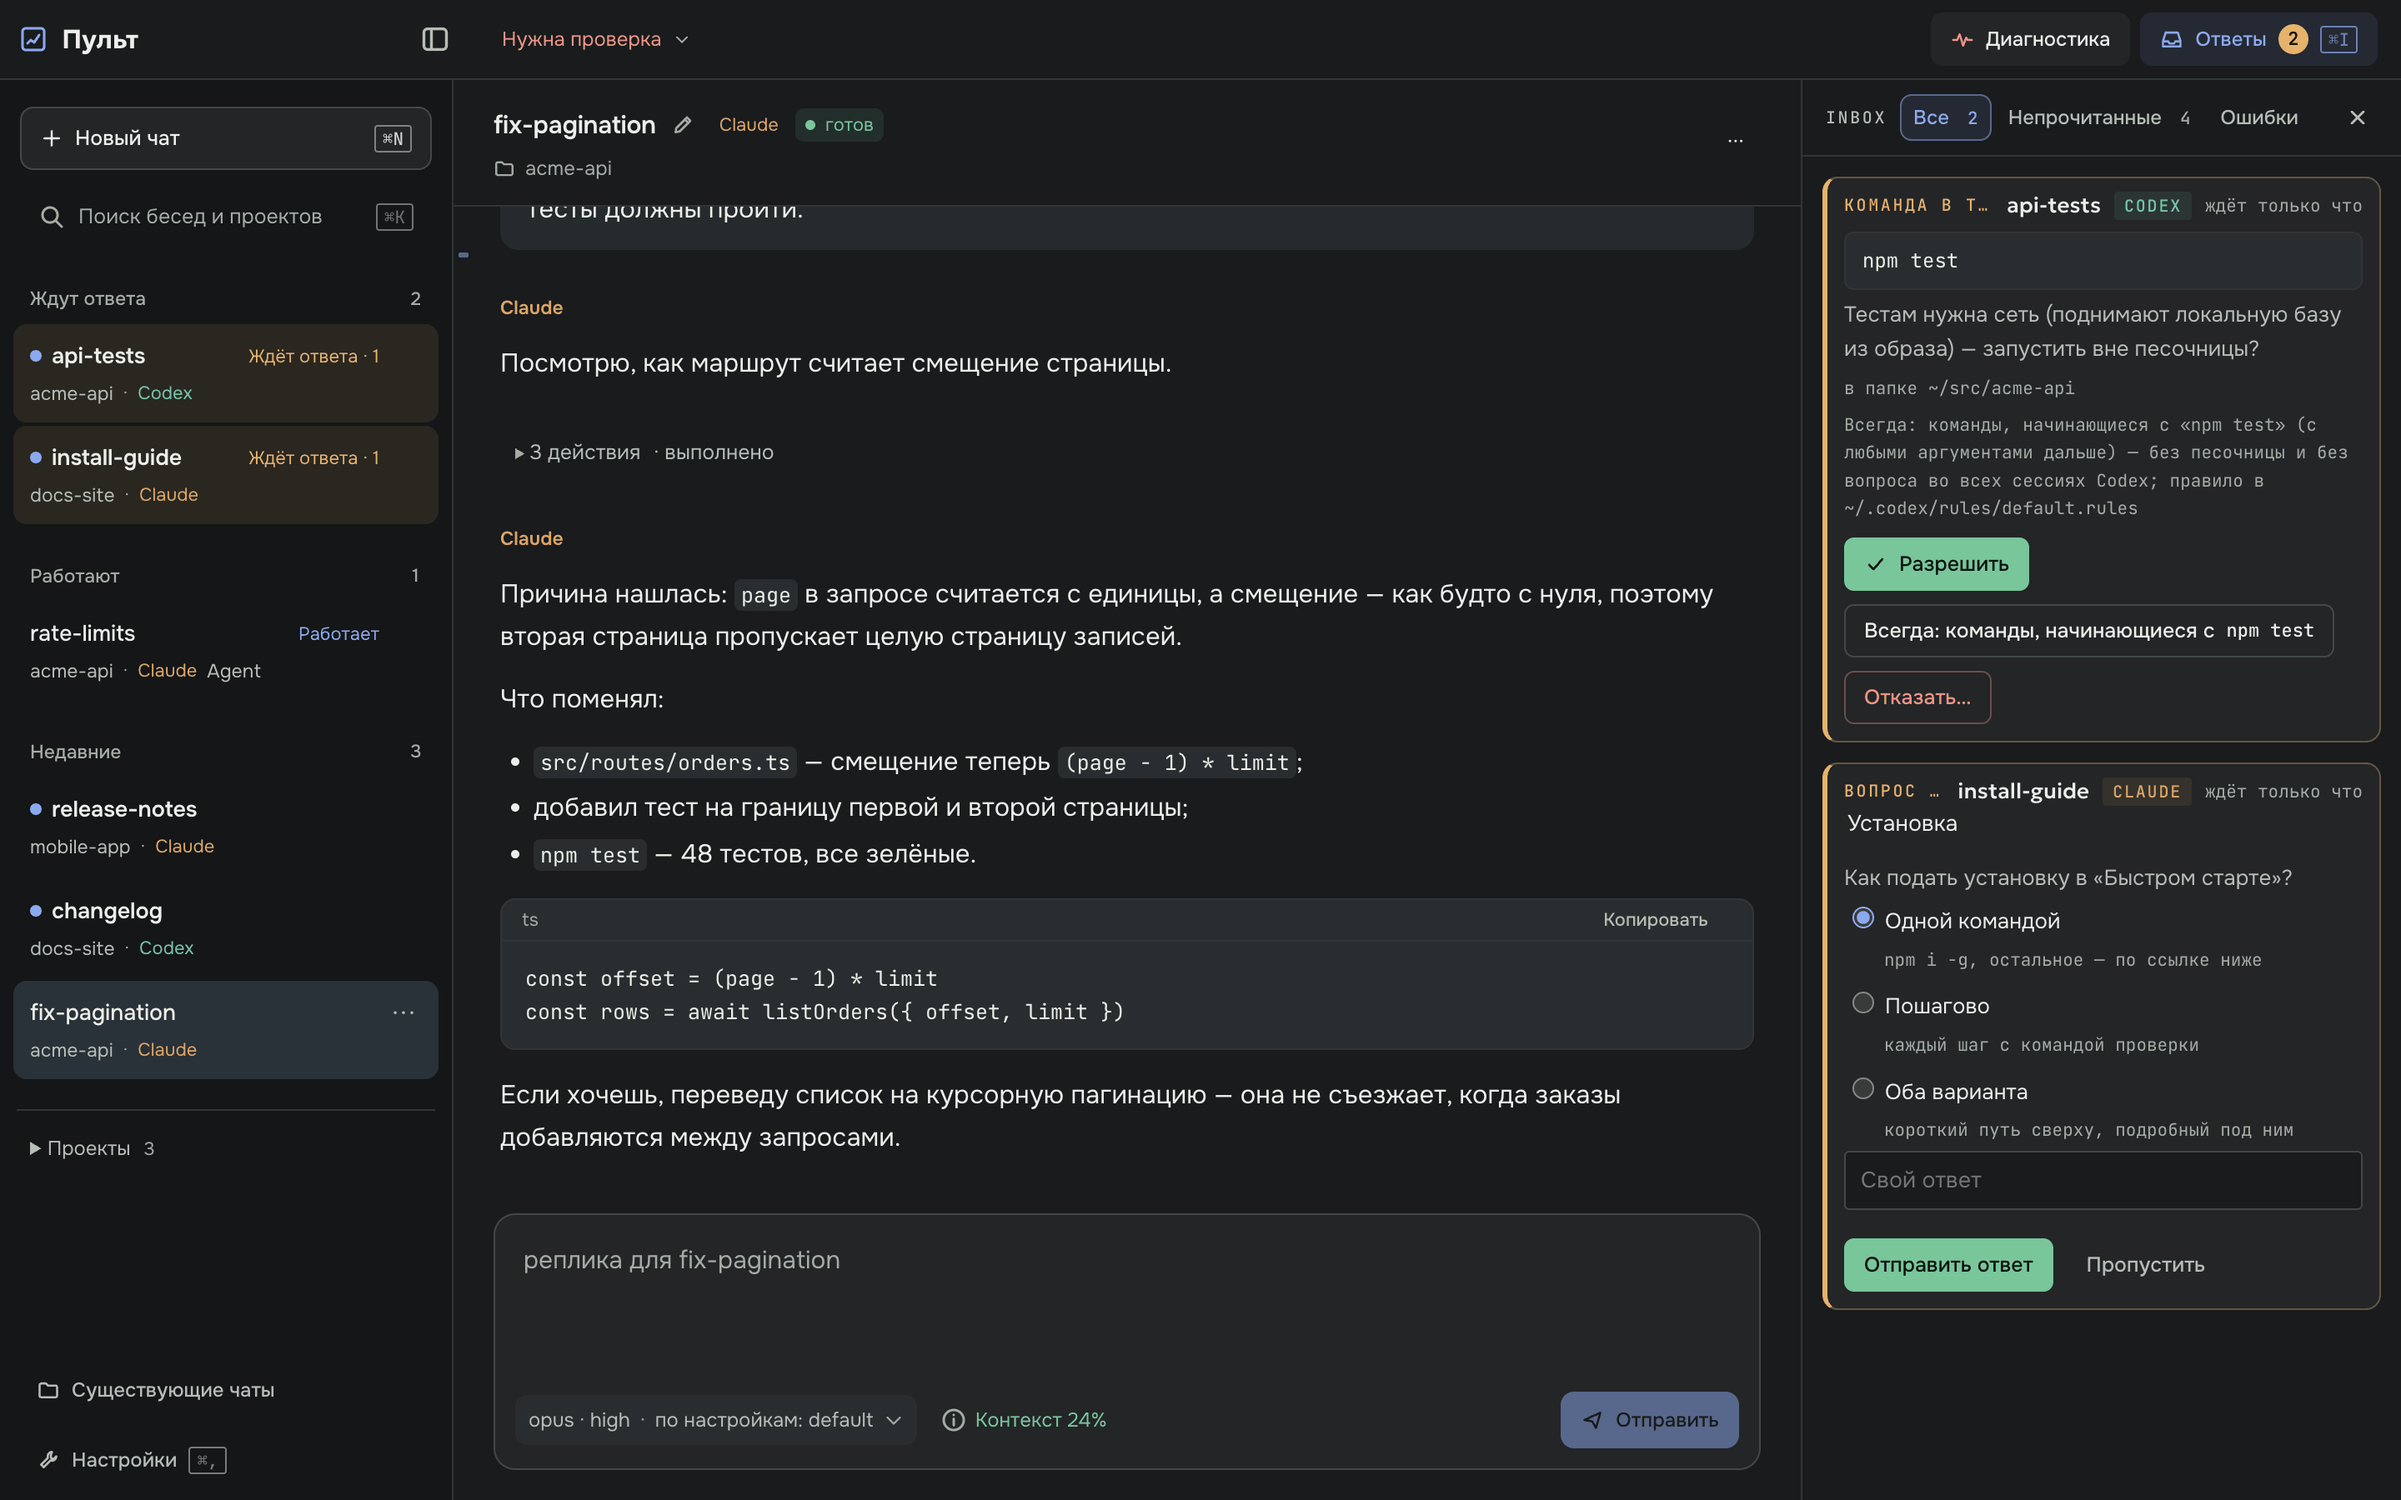
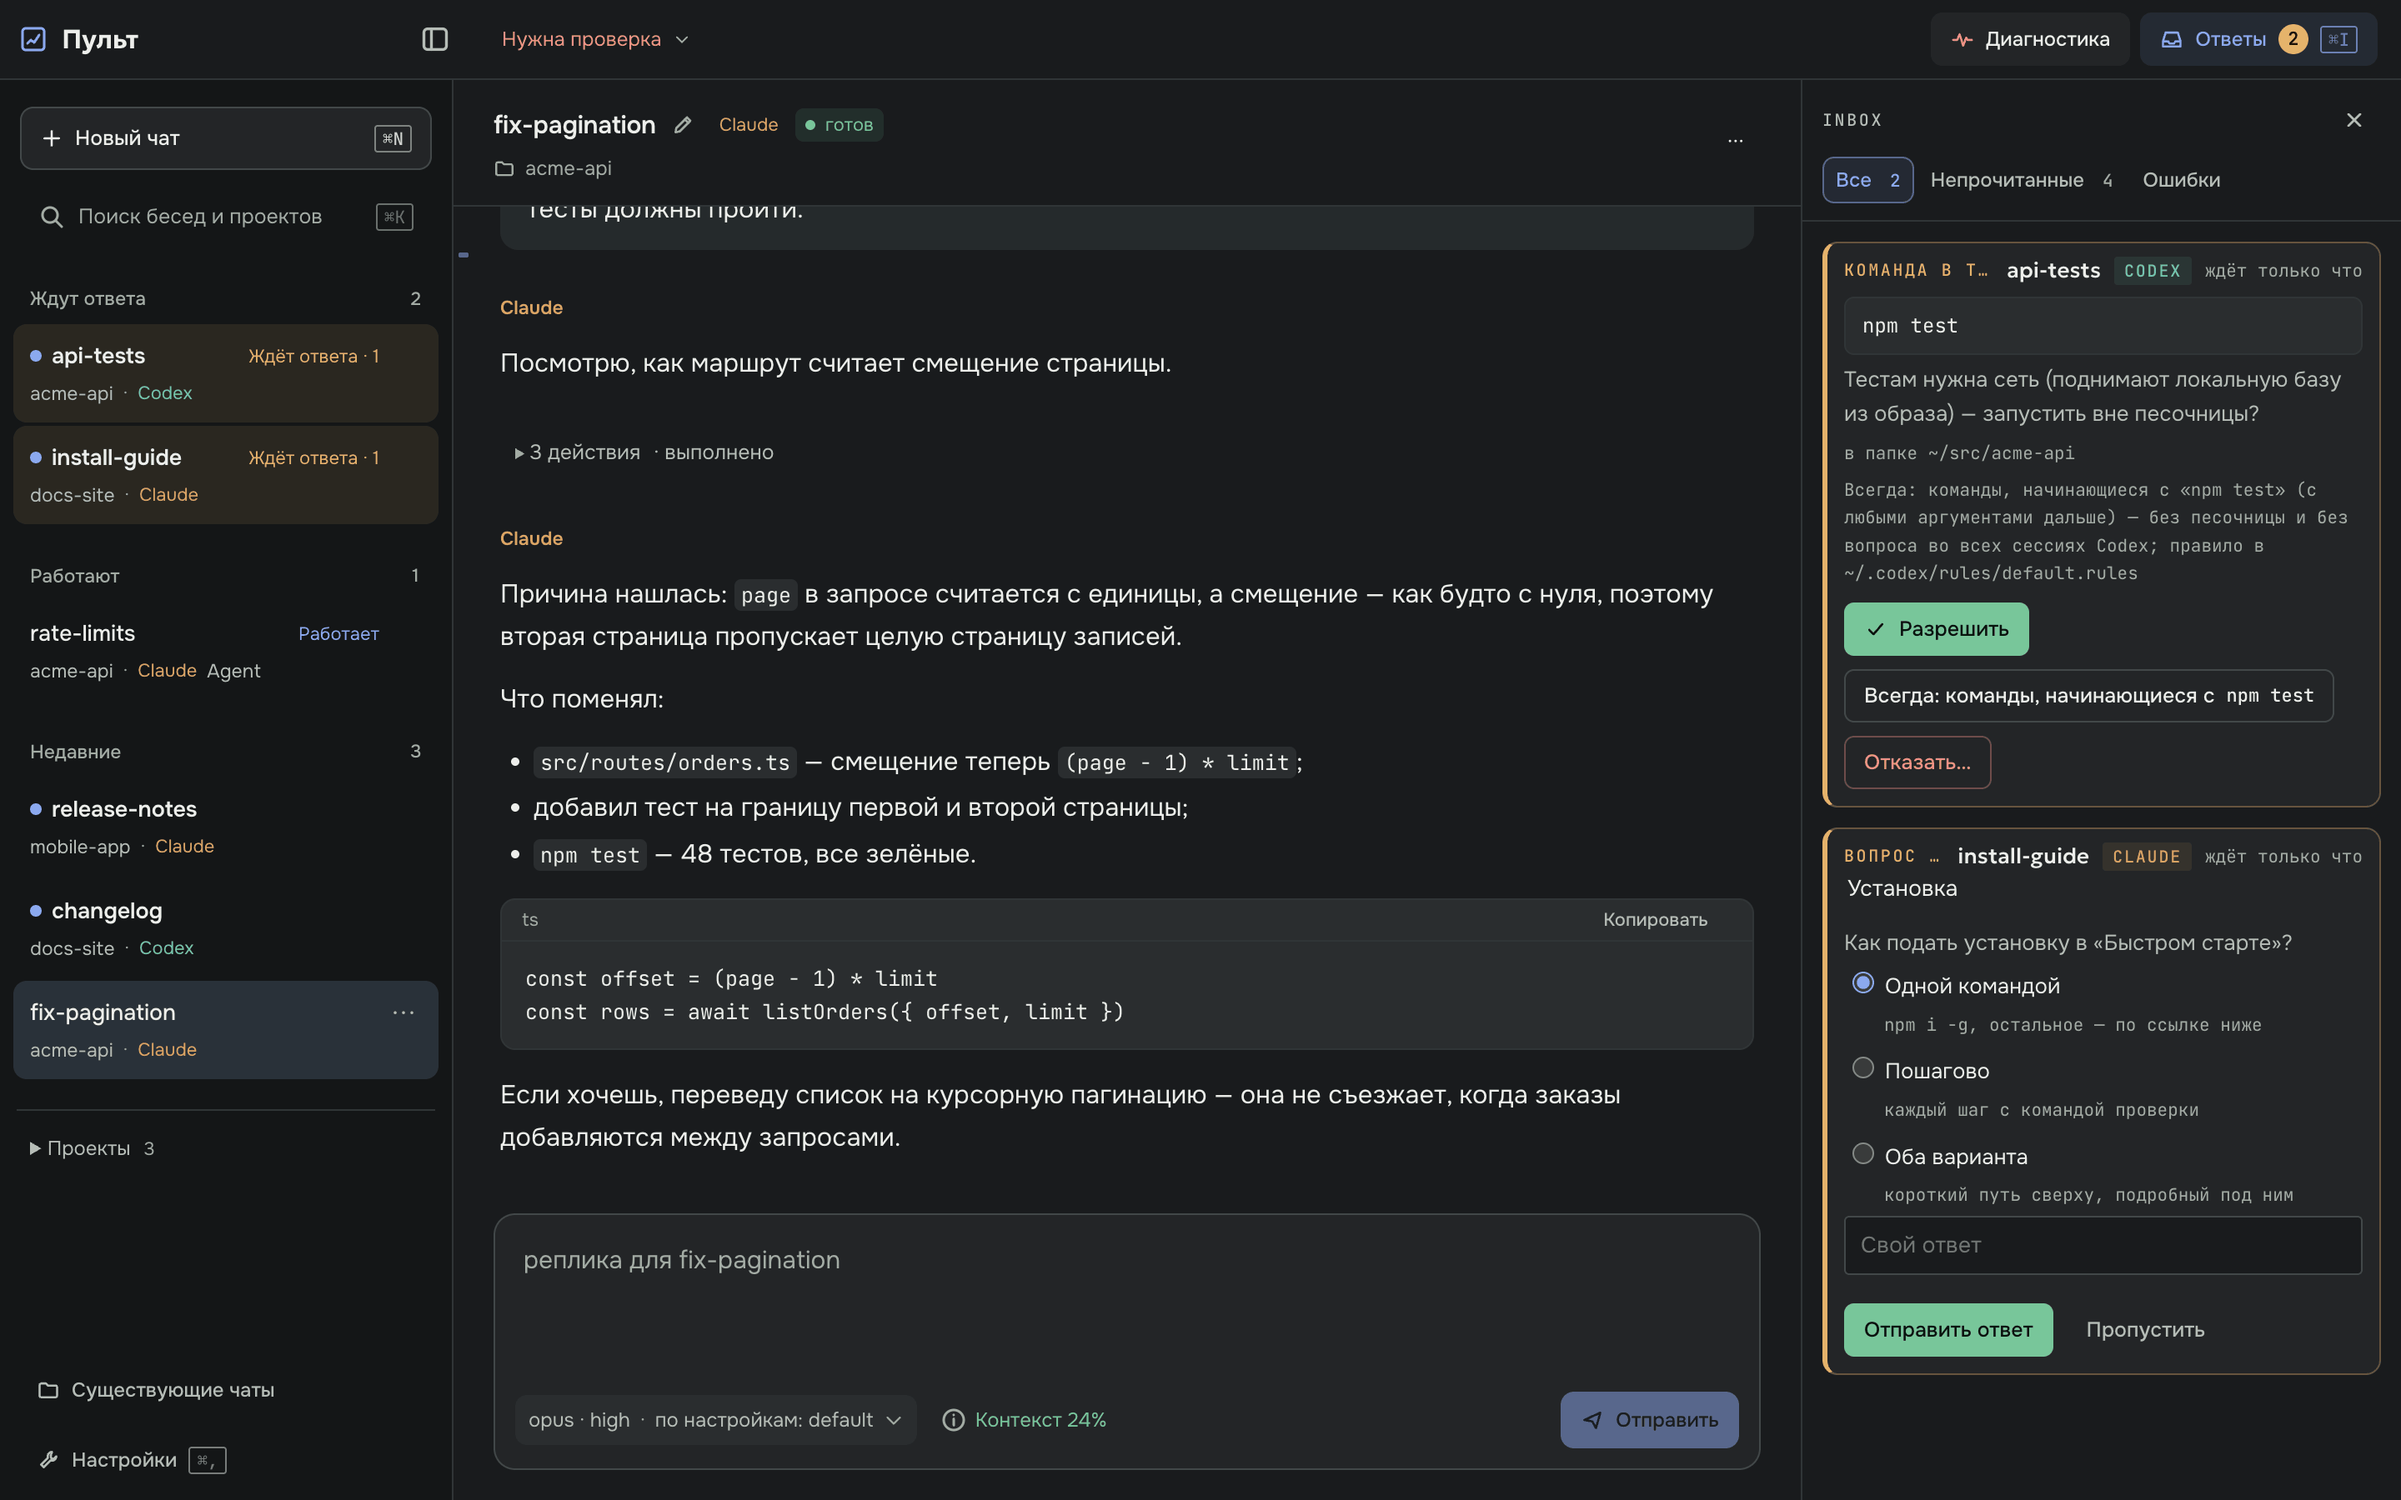
fix(ui): prevent narrow Inbox filter overlap in CI

Changed region(s): [[0.75, 0.0622, 0.9688, 0.9333]]

diff --git a/src/cli/startOnDemand.ts b/src/cli/startOnDemand.ts
@@ -102,7 +102,7 @@ export function daemonSpawnEnv(paths: PultPaths, parentEnv: NodeJS.ProcessEnv): 
       // M8c: свой адрес latest.json — настройка человека (только https, channel.ts), демон обязан её видеть.
       ...(parentEnv['PULT_UPDATE_URL'] ? { PULT_UPDATE_URL: parentEnv['PULT_UPDATE_URL'] } : {}),
       // Тестовые швы канала обновлений и задержка стража (M8e) — только вместе с PULT_TEST=1: вне тестов демон их и не читает.
-      ...(parentEnv['PULT_TEST'] === '1' ? pick(parentEnv, ['PULT_TEST_UPDATE_DIR', 'PULT_TEST_RELEASE_KEY', 'PULT_TEST_UPDATE_FIRST_MS', 'PULT_TEST_NET_DELAY_MS', 'PULT_TEST_NET_LOC', 'PULT_TEST_PROVIDERS', 'PULT_TEST_APP_DIRS', 'PULT_TEST_APP_HELLO_MS', 'PULT_TEST_APP_CODESIGN']) : {}),
+      ...(parentEnv['PULT_TEST'] === '1' ? pick(parentEnv, ['PULT_TEST_UPDATE_DIR', 'PULT_TEST_RELEASE_KEY', 'PULT_TEST_UPDATE_FIRST_MS', 'PULT_TEST_UPDATE_HOLD_MS', 'PULT_TEST_NET_DELAY_MS', 'PULT_TEST_NET_LOC', 'PULT_TEST_PROVIDERS', 'PULT_TEST_APP_DIRS', 'PULT_TEST_APP_HELLO_MS', 'PULT_TEST_APP_CODESIGN']) : {}),
     },
   })
 }

diff --git a/test/env.test.ts b/test/env.test.ts
@@ -14,6 +14,14 @@ import {
   captureLoginEnv, parseNulEnv, readEnvCache, sanitizePathEntries, toCacheFile, writeEnvCache,
 } from '../dist/env/loginShell.js'
 import { tempHome } from './helpers.js'
+import { daemonSpawnEnv } from '../dist/cli/startOnDemand.js'
+import { layout } from '../dist/core/paths.js'
+
+it('тестовая задержка обновления доходит до демона и не проходит вне PULT_TEST=1', () => {
+  const paths = layout('/tmp/pult-env-test')
+  assert.equal(daemonSpawnEnv(paths, { PULT_TEST: '1', PULT_TEST_UPDATE_HOLD_MS: '8000' })['PULT_TEST_UPDATE_HOLD_MS'], '8000')
+  assert.equal(daemonSpawnEnv(paths, { PULT_TEST_UPDATE_HOLD_MS: '8000' })['PULT_TEST_UPDATE_HOLD_MS'], undefined)
+})
 
 /**
  * Пульс событийного цикла: самый длинный промежуток между тиками таймера, пока идёт `fn`.

diff --git a/ui/src/styles.css b/ui/src/styles.css
@@ -1015,7 +1015,10 @@ button { font: inherit; color: inherit; }
 .feed-wrap:has(.jump-latest) .feed-inner { padding-bottom: 60px; }
 .inbox { background: var(--ground); border-left-color: var(--hair); }
 .inbox-list { padding: 12px; gap: 12px; background: var(--ground); }
-.inbox .pane-h { padding-left: 14px; border-bottom-color: var(--hair); height: 46px; }
+.inbox .pane-h { padding: 10px 12px; border-bottom-color: var(--hair); height: auto; min-height: 46px; display: grid; grid-template-columns: minmax(0, 1fr) auto; gap: 8px; }
+.inbox .pane-h > .inbox-filter { grid-column: 1 / -1; grid-row: 2; flex-wrap: wrap; }
+.inbox .pane-h > .grow { display: none; }
+.inbox .pane-h > button { grid-column: 2; grid-row: 1; }
 .perm { border-radius: 9px; overflow: hidden; background: var(--panel); }
 .perm-actions .btn { height: 32px; border-radius: 6px; }
 .perm-reason { font-size: 13px; line-height: 1.55; }
